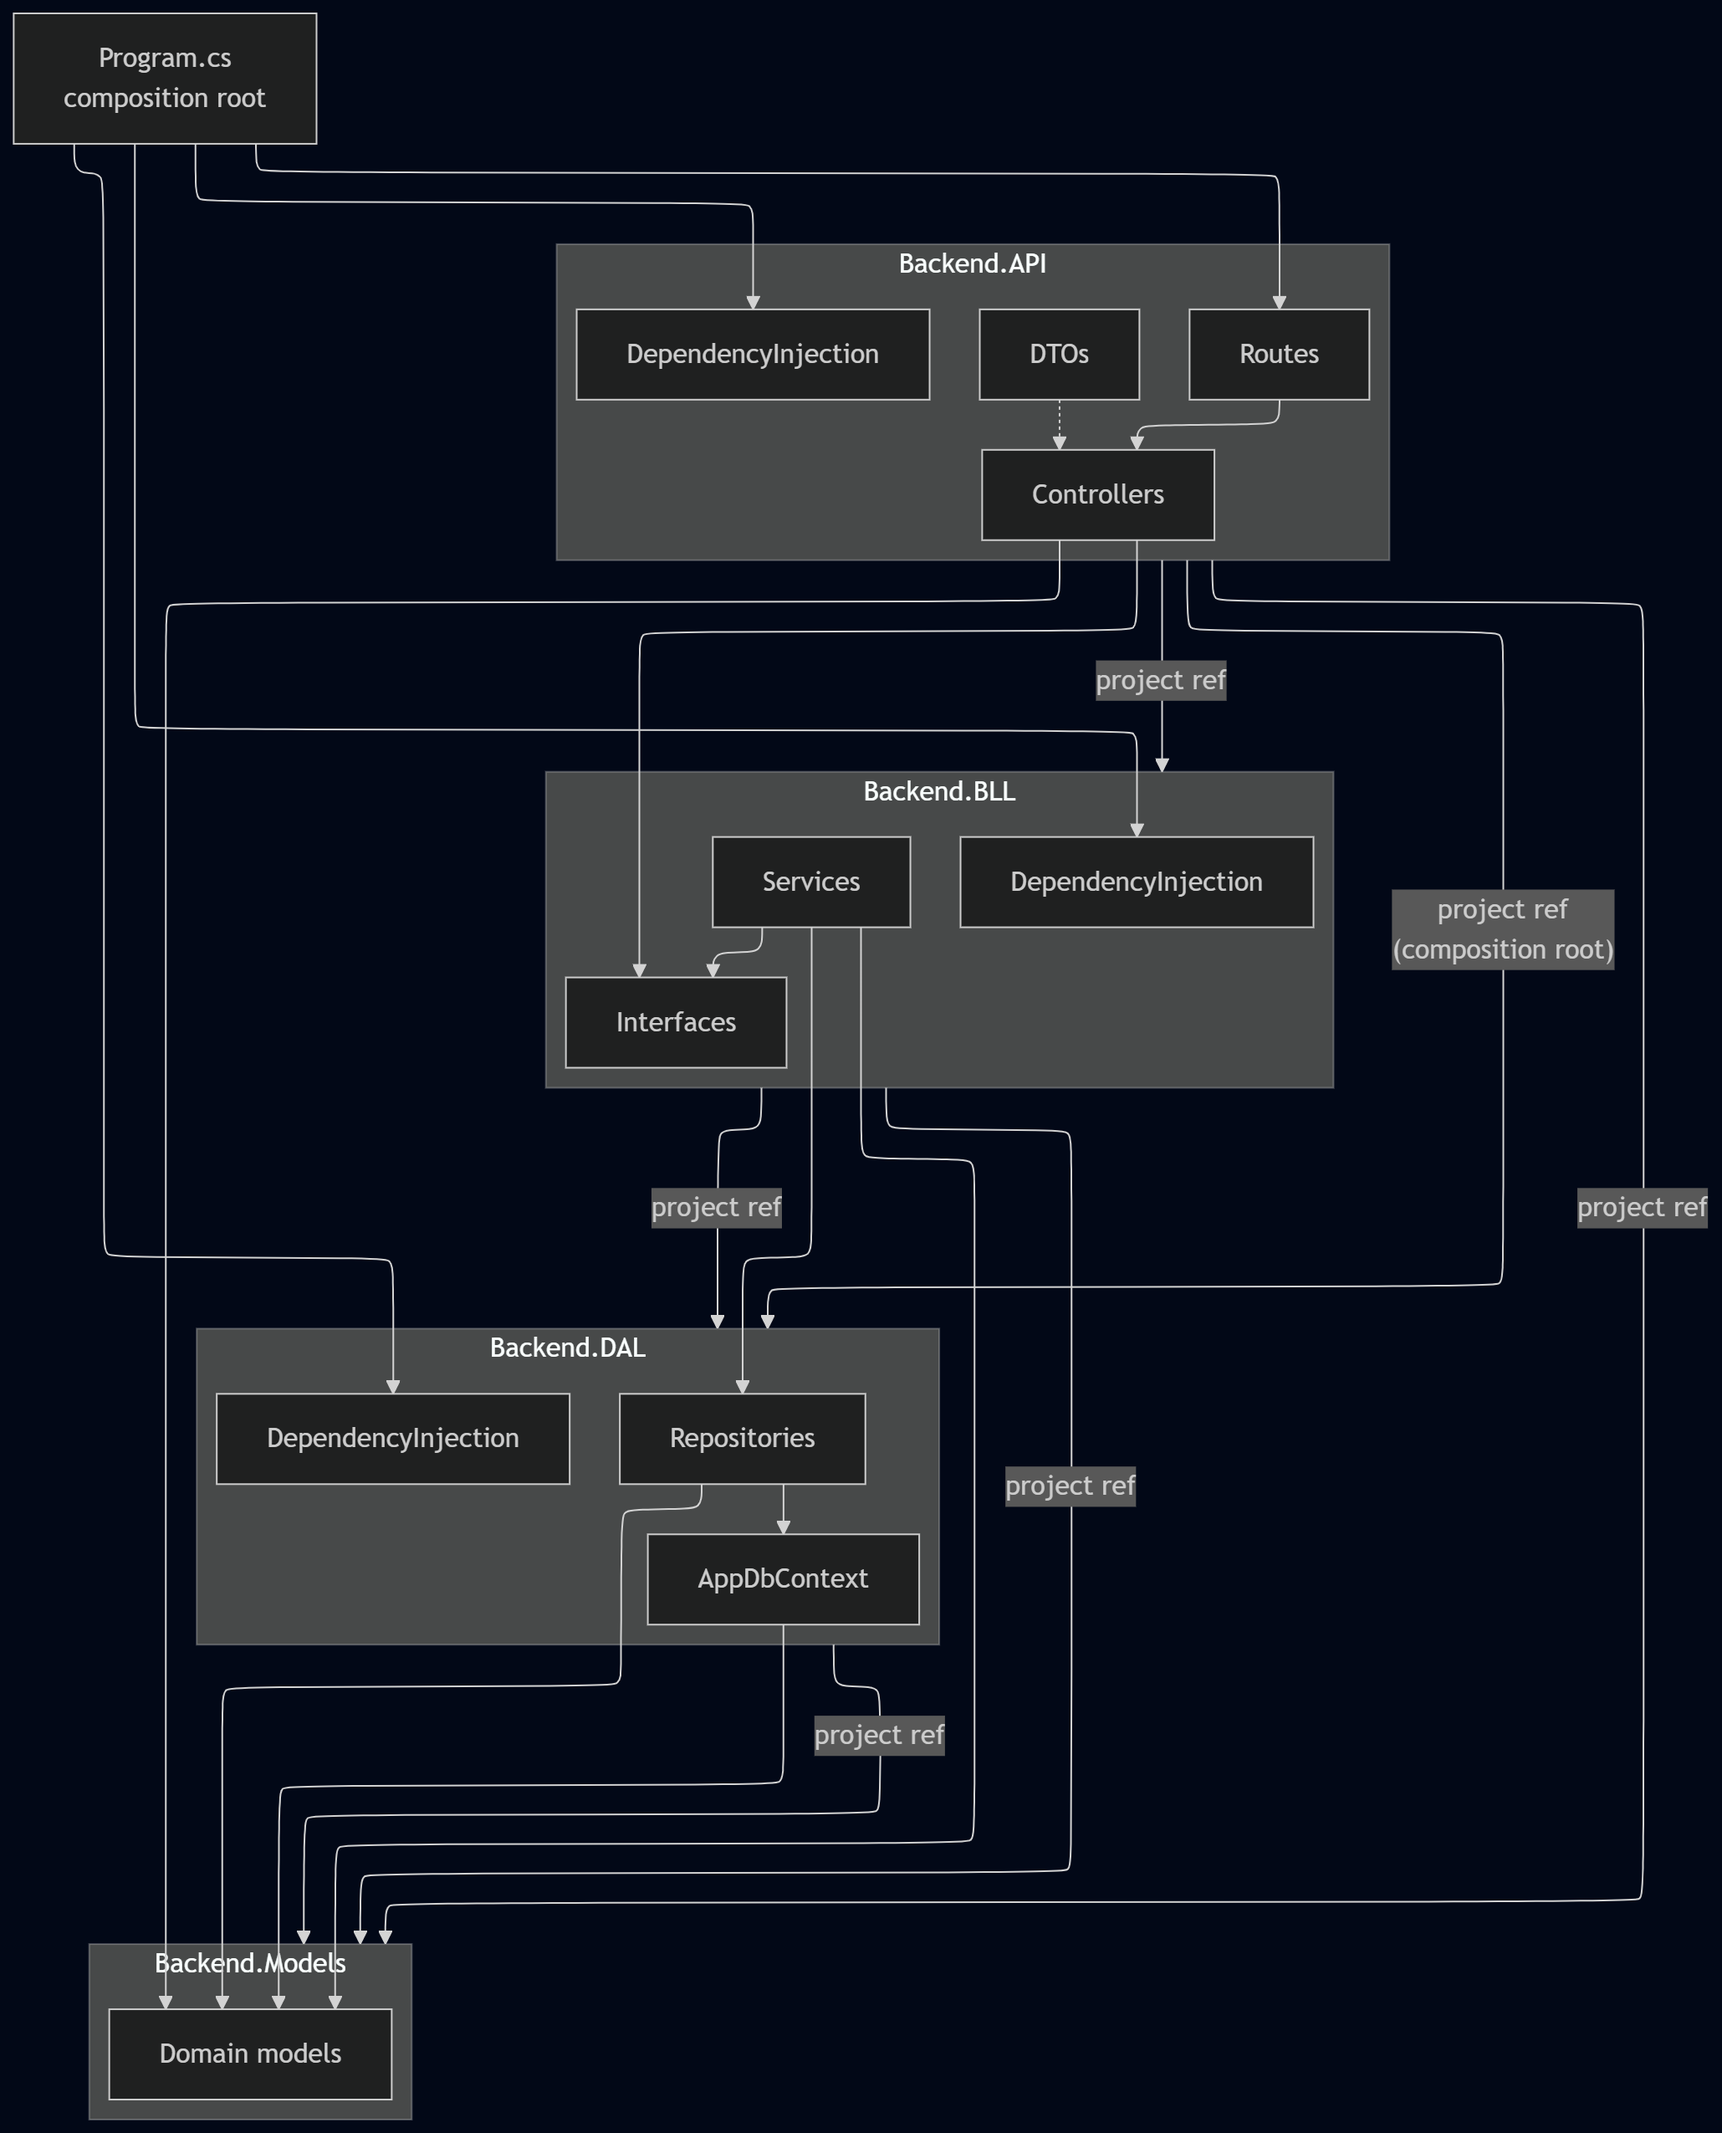
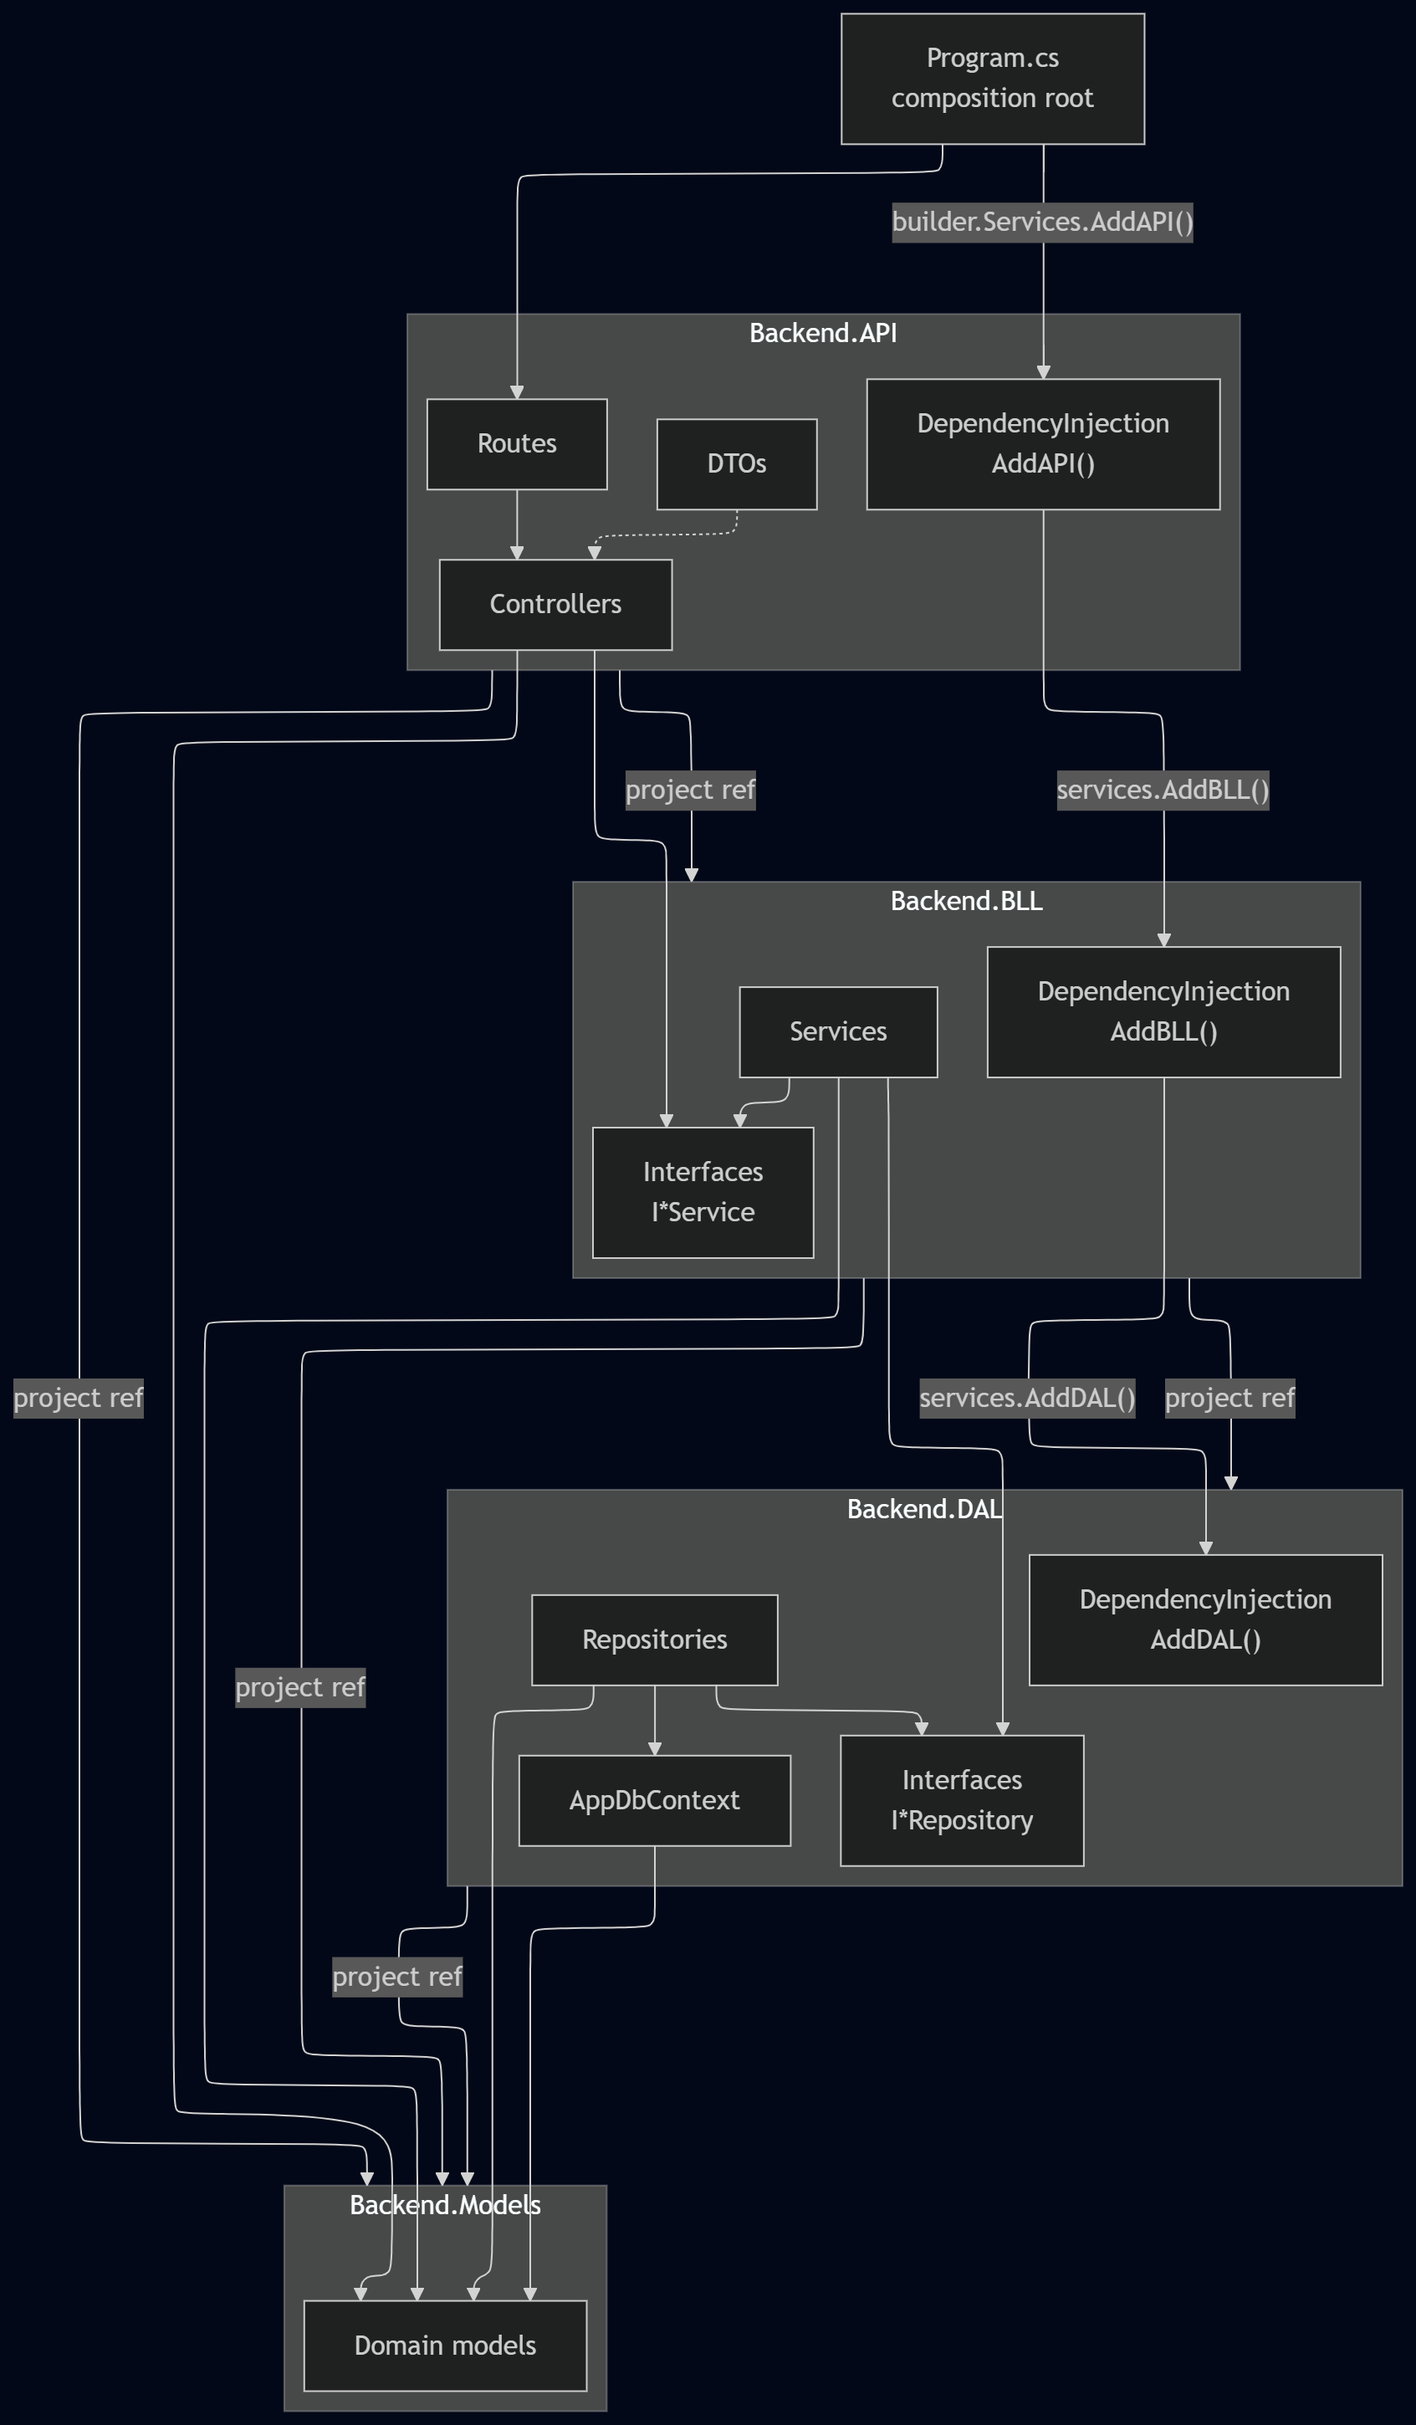
Changed a few things in the DI and the documentation updated for it -> Renamed the files route -> routes

diff --git a/backend.bll/DependencyInjection.cs b/backend.bll/DependencyInjection.cs
@@ -30,6 +30,7 @@
 using Microsoft.Extensions.DependencyInjection;
 using Backend.BLL.Interfaces;
 using Backend.BLL.Services;
+using Backend.DAL;
 
 namespace Backend.BLL;
 
@@ -40,6 +41,8 @@ namespace Backend.BLL;
 public static class DependencyInjection {
 
     public static IServiceCollection AddBLL(this IServiceCollection services) {
+        services.AddDAL();
+
         // services.AddScoped<Interface, Class(implementating the interface)>();
         // ex : services.AddScoped<IService, Service>();
         // 

diff --git a/backend.api/DependencyInjection.cs b/backend.api/DependencyInjection.cs
@@ -29,6 +29,7 @@
 
 using Microsoft.Extensions.DependencyInjection;
 using Backend.API.Controllers;
+using Backend.BLL;
 
 namespace Backend.API;
 
@@ -38,6 +39,8 @@ namespace Backend.API;
 
 public static class DependencyInjection {
     public static IServiceCollection AddAPI(this IServiceCollection services) {
+        services.AddBLL();
+        
         // services.AddScoped<Interface, Class(implementating the interface)>();
         // or
         // services.AddScoped<Class>();

diff --git a/backend.api/Program.cs b/backend.api/Program.cs
@@ -25,8 +25,6 @@ var builder = WebApplication.CreateBuilder(args);
 
 builder.Services.AddEndpointsApiExplorer();
 builder.Services.AddSwaggerGen();
-builder.Services.AddDAL();
-builder.Services.AddBLL();
 builder.Services.AddAPI();
 
 //

diff --git a/Documentation/AGENTS.md b/Documentation/AGENTS.md
@@ -21,9 +21,9 @@ HTTP request
     ↓
 Backend.API        Routes → Controllers → DTOs
     ↓
-Backend.BLL        Interfaces → Services
+Backend.BLL        Interfaces (I*Service) → Services
     ↓
-Backend.DAL        Repositories → AppDbContext
+Backend.DAL        Interfaces (I*Repository) → Repositories → AppDbContext
     ↓
 Backend.Models     Shared domain models (properties only)
 ```
@@ -33,35 +33,44 @@ Backend.Models     Shared domain models (properties only)
 | Project | Role | May contain |
 | --- | --- | --- |
 | `Backend.API` | HTTP edge | Routes, Controllers, DTOs, API DI |
-| `Backend.BLL` | Business logic | Interfaces, Services, BLL DI |
-| `Backend.DAL` | Persistence | Repositories, `AppDbContext`, DAL DI |
+| `Backend.BLL` | Business logic | `Interfaces/`, `Services/`, BLL DI |
+| `Backend.DAL` | Persistence | `Interfaces/`, `Repositories/`, `AppDbContext`, DAL DI |
 | `Backend.Models` | Shared models | POCOs with properties only |
 
 ### Dependency rules (do not break)
 
-Allowed references:
+Allowed project references:
 
-- `API` → `BLL`, `DAL` (composition root only), `Models`
+- `API` → `BLL`, `Models`
 - `BLL` → `DAL`, `Models`
 - `DAL` → `Models`
 - `Models` → nothing in this solution
 
 Forbidden:
 
+- `API` calling `AddDAL()` or `AddBLL()` directly from `Program.cs`
 - `BLL` or `DAL` importing API types (DTOs, Controllers, Routes)
 - `Models` depending on any other project
 - Putting business logic in Routes or DTOs
 - Accessing `AppDbContext` from API or Controllers (repositories only)
 - Skipping a layer (e.g. Controller calling a Repository directly)
 
-`Program.cs` is the composition root: it may call `AddDAL()`, `AddBLL()`, `AddAPI()` and map routes. Prefer keeping business wiring inside each layer’s `DependencyInjection.cs`.
+DI registration is **chained** so each layer pulls in the layer below it:
+
+```
+Program.cs → AddAPI() → AddBLL() → AddDAL()
+```
+
+`Program.cs` only calls `AddAPI()` and maps routes. Each layer’s
+`DependencyInjection.cs` owns its own registrations and invokes the
+next layer’s `Add*()` method.
 
 ### Request flow
 
 1. **Route** (`Backend.API/Routes`) — exposes the HTTP endpoint, binds input, injects the controller
 2. **Controller** (`Backend.API/Controllers`) — maps DTO → service call, returns the result
 3. **Service** (`Backend.BLL/Services` via interface) — business rules
-4. **Repository** (`Backend.DAL/Repositories` via interface) — database access when needed
+4. **Repository** (`Backend.DAL/Repositories` via `Backend.DAL/Interfaces`) — database access when needed
 5. **Model** (`Backend.Models`) — shared shape of domain data
 
 ---
@@ -93,18 +102,19 @@ Copy and track:
 Feature: <Name>
 
 [ ] 1. Model(s) in Backend.Models
-[ ] 2. Repository interface + class in Backend.DAL (if persistence)
-[ ] 3. Register entity on AppDbContext + constraints (if persistence)
-[ ] 4. Register repository in Backend.DAL/DependencyInjection.cs
-[ ] 5. EF migration (if persistence)
-[ ] 6. Service interface in Backend.BLL/Interfaces
-[ ] 7. Service implementation in Backend.BLL/Services
-[ ] 8. Register service in Backend.BLL/DependencyInjection.cs
-[ ] 9. Request/response DTOs in Backend.API/DTOs
-[ ] 10. Controller in Backend.API/Controllers
-[ ] 11. Register controller in Backend.API/DependencyInjection.cs
-[ ] 12. Routes in Backend.API/Routes + Map* in Program.cs
-[ ] 13. Build and smoke-test the endpoints
+[ ] 2. Repository interface in Backend.DAL/Interfaces (if persistence)
+[ ] 3. Repository class in Backend.DAL/Repositories (if persistence)
+[ ] 4. Register entity on AppDbContext + constraints (if persistence)
+[ ] 5. Register repository in Backend.DAL/DependencyInjection.cs
+[ ] 6. EF migration (if persistence)
+[ ] 7. Service interface in Backend.BLL/Interfaces
+[ ] 8. Service implementation in Backend.BLL/Services
+[ ] 9. Register service in Backend.BLL/DependencyInjection.cs
+[ ] 10. Request/response DTOs in Backend.API/DTOs
+[ ] 11. Controller in Backend.API/Controllers
+[ ] 12. Register controller in Backend.API/DependencyInjection.cs
+[ ] 13. Routes in Backend.API/Routes + Map* in Program.cs
+[ ] 14. Build and smoke-test the endpoints
 ```
 
 ### Step details
@@ -114,21 +124,21 @@ Feature: <Name>
 - Properties only (no business logic, no EF attributes unless required later)
 - Shared across layers intentionally (avoid duplicating the same type per layer)
 
-#### 2–5. Persistence — `Backend.DAL` (when needed)
+#### 2–6. Persistence — `Backend.DAL` (when needed)
 
-- Interface: `I<Feature>Repository`
-- Implementation: `<Feature>Repository` under `Repositories/`
+- Interface: `I<Feature>Repository` in `Interfaces/` (same pattern as BLL)
+- Implementation: `<Feature>Repository` in `Repositories/`
 - Register `DbSet<>` and relationships in `AppDbContext` (`Database.cs`)
 - Register: `services.AddScoped<I<Feature>Repository, <Feature>Repository>();`
 - Migration commands: see `commands.md`
 
-#### 6–8. Business logic — `Backend.BLL`
+#### 7–9. Business logic — `Backend.BLL`
 
 - Interface: `I<Feature>Service` in `Interfaces/`
 - Implementation: `<Feature>Service` in `Services/`, depends on repository interfaces (not concrete types)
 - Register: `services.AddScoped<I<Feature>Service, <Feature>Service>();`
 
-#### 9–12. HTTP edge — `Backend.API`
+#### 10–13. HTTP edge — `Backend.API`
 
 **DTOs** (`DTOs/<Feature>DTOs.cs`):
 
@@ -171,22 +181,36 @@ Feature: <Name>
 
 ## Dependency injection
 
-Each layer owns its registrations:
+Each layer owns its registrations and chains the layer below:
 
-| File | Registers |
-| --- | --- |
-| `Backend.DAL/DependencyInjection.cs` | `AppDbContext`, repositories |
-| `Backend.BLL/DependencyInjection.cs` | services (`I*Service` → `*Service`) |
-| `Backend.API/DependencyInjection.cs` | controllers |
+| File | Calls next | Registers |
+| --- | --- | --- |
+| `Backend.API/DependencyInjection.cs` | `AddBLL()` | controllers |
+| `Backend.BLL/DependencyInjection.cs` | `AddDAL()` | services (`I*Service` → `*Service`) |
+| `Backend.DAL/DependencyInjection.cs` | — | `AppDbContext`, repositories |
 
 Default lifetime: **Scoped**.
 
-`Program.cs` order:
+`Program.cs` only registers the API layer (the rest is chained):
 
 ```csharp
-builder.Services.AddDAL();
-builder.Services.AddBLL();
 builder.Services.AddAPI();
+```
+
+Inside the layers:
+
+```csharp
+// AddAPI
+services.AddBLL();
+services.AddScoped<ExampleController>();
+
+// AddBLL
+services.AddDAL();
+services.AddScoped<IExampleService, ExampleService>();
+
+// AddDAL
+// services.AddDbContext<AppDbContext>(...);
+// services.AddScoped<IRepository, Repository>();
 ```
 
 ---

diff --git a/Documentation/HOW_TO_ADD_A_FEATURE.md b/Documentation/HOW_TO_ADD_A_FEATURE.md
@@ -41,7 +41,7 @@ Browser / frontend
 3. Service        (business rules)        Backend.BLL/Services
         │
         ▼
-4. Repository     (talk to the database)  Backend.DAL/Repositories   ← only if you save data
+4. Repository     (talk to the database)  Backend.DAL/Interfaces + Repositories   ← only if you save data
         │
         ▼
 5. Model          (shape of the data)     Backend.Models
@@ -137,15 +137,15 @@ Add relationships in `OnModelCreating` only when you need them
 
 ### 2.2 Repository interface
 
-**File to create:** `Backend.DAL/Repositories/IDeviceRepository.cs`
-(or an `Interfaces` folder if you prefer; stay consistent once you choose)
+**File to create:** `Backend.DAL/Interfaces/IDeviceRepository.cs`
 
 **Role:** list the database operations the rest of the app is allowed to use.
+Same idea as `Backend.BLL/Interfaces` for services.
 
 ```csharp
 using Backend.Models;
 
-namespace Backend.DAL.Repositories;
+namespace Backend.DAL.Interfaces;
 
 public interface IDeviceRepository {
     Task<Device?> GetByIdAsync(Guid id);
@@ -408,8 +408,10 @@ using Backend.API.Routes;
 app.MapDeviceRoutes();
 ```
 
-`AddDAL()`, `AddBLL()`, and `AddAPI()` should already be called.
-You usually only add a new `Map…` line here for a new feature.
+`AddAPI()` is already called in `Program.cs`. It chains `AddBLL()` →
+`AddDAL()` for you. You usually only add a new `Map…` line here for a
+new feature (and register the new types in each layer’s
+`DependencyInjection.cs`).
 
 ---
 
@@ -443,7 +445,7 @@ Backend.Models/
 
 Backend.DAL/                          (only if persistence)
   Database.cs                         (edit AppDbContext)
-  Repositories/IDeviceRepository.cs
+  Interfaces/IDeviceRepository.cs
   Repositories/DeviceRepository.cs
   DependencyInjection.cs              (edit)
 

diff --git a/Documentation/Dependencies.md b/Documentation/Dependencies.md
@@ -10,19 +10,20 @@ flowchart TB
         Routes["Routes"]
         Controllers["Controllers"]
         DTOs["DTOs"]
-        ApiDI["DependencyInjection"]
+        ApiDI["DependencyInjection<br/>AddAPI()"]
     end
 
     subgraph BLL["Backend.BLL"]
-        Interfaces["Interfaces"]
+        ServiceInterfaces["Interfaces<br/>I*Service"]
         Services["Services"]
-        BllDI["DependencyInjection"]
+        BllDI["DependencyInjection<br/>AddBLL()"]
     end
 
     subgraph DAL["Backend.DAL"]
+        RepoInterfaces["Interfaces<br/>I*Repository"]
         Repositories["Repositories"]
         DbContext["AppDbContext"]
-        DalDI["DependencyInjection"]
+        DalDI["DependencyInjection<br/>AddDAL()"]
     end
 
     subgraph Models["Backend.Models"]
@@ -31,15 +32,16 @@ flowchart TB
 
     Program["Program.cs<br/>composition root"]
 
-    Program --> ApiDI
-    Program --> BllDI
-    Program --> DalDI
+    Program -->|"builder.Services.AddAPI()"| ApiDI
+    ApiDI -->|"services.AddBLL()"| BllDI
+    BllDI -->|"services.AddDAL()"| DalDI
     Program --> Routes
 
     Routes --> Controllers
-    Controllers --> Interfaces
-    Services --> Interfaces
-    Services --> Repositories
+    Controllers --> ServiceInterfaces
+    Services --> ServiceInterfaces
+    Services --> RepoInterfaces
+    Repositories --> RepoInterfaces
     Repositories --> DbContext
 
     Controllers --> DomainModels
@@ -49,7 +51,6 @@ flowchart TB
     DTOs -.-> Controllers
 
     API -->|"project ref"| BLL
-    API -->|"project ref<br/>(composition root)"| DAL
     API -->|"project ref"| Models
     BLL -->|"project ref"| DAL
     BLL -->|"project ref"| Models
